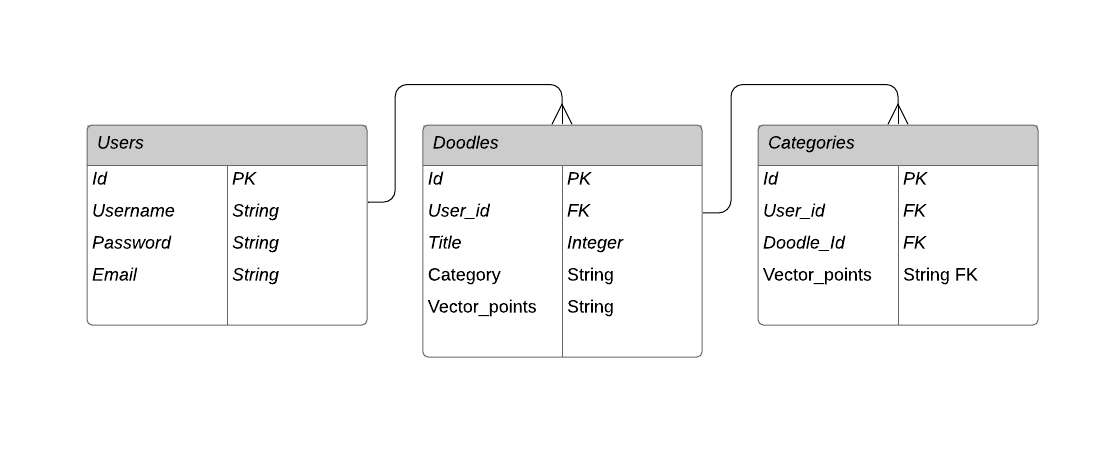
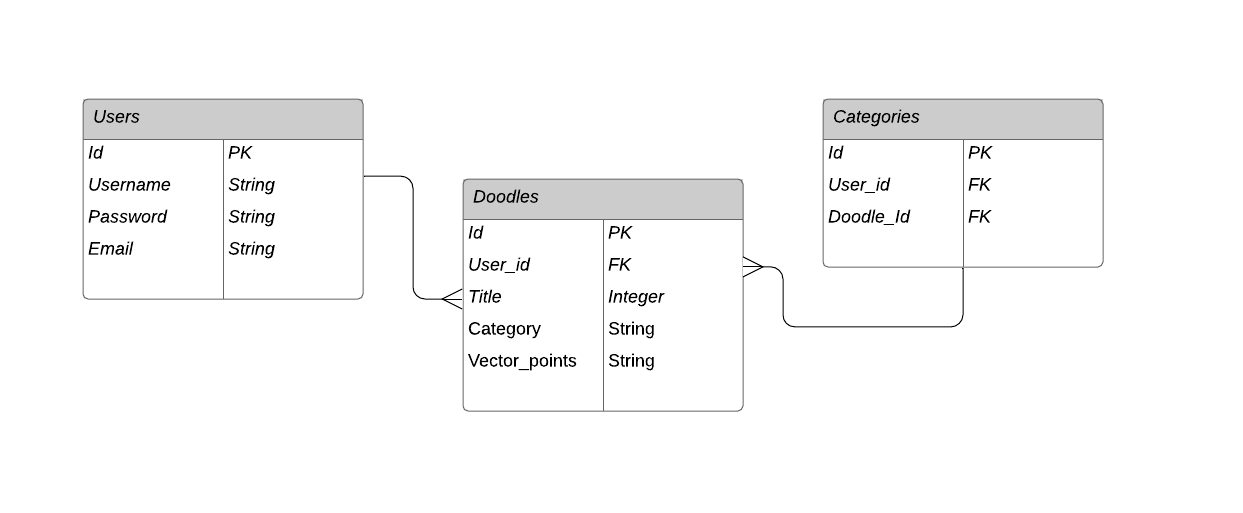
Updated README and ERD

diff --git a/README.md b/README.md
@@ -145,9 +145,9 @@ src
 ``` structure
 
 database_db
-|__ one user has zero or many doodles
-|__ zero or many doodles belong to one user
-|__ one category has zero or many doodles
+|__ A user can have zero or many doodles
+|__ Zero or many doodles can belong to a user
+|__ One category can have zero or many doodles
 
 ```
 
